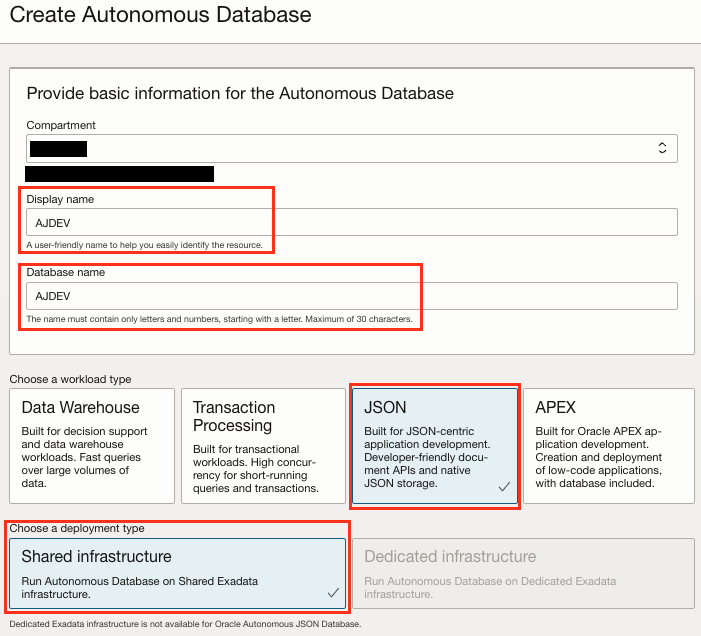
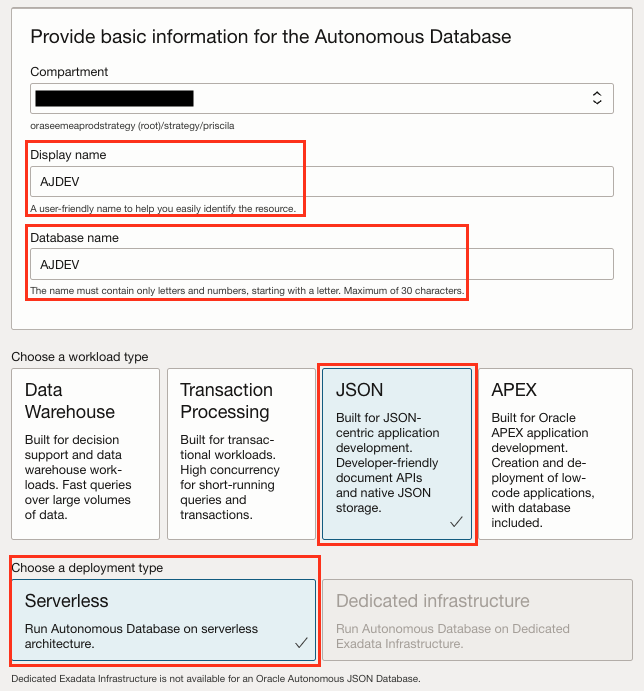
Change AJDEV screenshoots

Changed region(s): [[0.0, 0.0, 0.9938, 0.9858], [0.9627, 0.4182, 0.9938, 0.478], [0.9627, 0.5975, 0.9938, 0.6274]]

diff --git a/mongo-api/infra-ocw/infra-free-ocw.md b/mongo-api/infra-ocw/infra-free-ocw.md
@@ -221,7 +221,7 @@ On the Instance Details page, copy Public IP Address in your notes.
     <copy>AJDEV</copy>
     ```
     - Choose a workload type: JSON
-    - Choose a deployment type: Shared Infrastructure
+    - Choose a deployment type: Serverless
     - Choose database version: 19c
     - OCPU count: 1
     - Storage (TB): 1 or 0.02 if you are using a Trial account
@@ -253,9 +253,9 @@ On the Instance Details page, copy Public IP Address in your notes.
 
     ![Creation AJD Network](./images/creation-ajson-network-public-ip.png)
 
-6. Under **Choose a license type**:
+6. Under **Choose license and Oracle Datavase editiont**:
 
-    - License included
+    - This Database is provisioned with **License included** license type.
 
     ![Creation AJD License](./images/creation-ajson-license.png)
 
@@ -531,4 +531,4 @@ You may now **proceed to the next lab**.
 ## Acknowledgements
 * **Author** - Valentin Leonard Tabacaru, Database Product Management and Priscila Iruela, Technology Product Strategy Director
 * **Contributors** - Victor Martin Alvarez, Technology Product Strategy Director
-* **Last Updated By/Date** - Priscila Iruela, July 2023
+* **Last Updated By/Date** - Priscila Iruela, August 2023

diff --git a/mongo-api/infra-ocw/infra-ocw.md b/mongo-api/infra-ocw/infra-ocw.md
@@ -156,7 +156,7 @@ On the Instance Details page, copy Public IP Address in your notes.
     <copy>XXX0AJD</copy>
     ```
     - Choose a workload type: JSON
-    - Choose a deployment type: Shared Infrastructure
+    - Choose a deployment type: Serverless
     - Choose database version: 19c
     - OCPU count: 1
     - Storage (TB): 1 or 0.02 if you are using a Trial account
@@ -190,7 +190,7 @@ On the Instance Details page, copy Public IP Address in your notes.
 
 6. Under **Choose a license type**:
 
-    - License included
+    - This Database is provisioned with **License included** license type.
 
     ![Creation AJD License](./images/creation-ajson-license.png)
 

diff --git a/mongo-api/intro-ocw/intro-ocw.md b/mongo-api/intro-ocw/intro-ocw.md
@@ -37,4 +37,4 @@ Here is a video to help with the Oracle Trial Sign Up Process:
 ## Acknowledgements
 * **Author** - Valentin Leonard Tabacaru, Database Product Management and Priscila Iruela, Technology Product Strategy Director
 * **Contributors** - Victor Martin Alvarez, Technology Product Strategy Director
-* **Last Updated By/Date** - Priscila Iruela, July 2023
+* **Last Updated By/Date** - Priscila Iruela, August 2023
